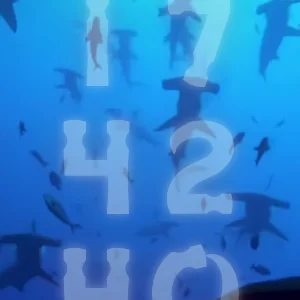
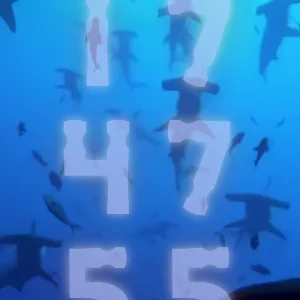
m

diff --git a/src/pages/2026/26-09/26-09-15/Clock.module.css b/src/pages/2026/26-09/26-09-15/Clock.module.css
@@ -1,6 +1,6 @@
 .container {
   --background: #090909;
-  --display-color: #f4f1e8;
+  --display-color: #d7cdf2;
   --accent-color: #ff4d00;
 
   position: relative;
@@ -34,11 +34,11 @@
   gap: 0.15em; /* Spacing between rows */
   color: var(--display-color);
   font-family: 'Hammerhead', 'Courier New', Courier, monospace;
-  font-size: clamp(8rem, 20vw, 16rem); /* DIGIT SIZE */
+  font-size: clamp(8rem, 16vw, 14rem); /* DIGIT SIZE */
   font-variant-numeric: tabular-nums;
   letter-spacing: 0;
   line-height: 0.85;
-  opacity: 0.4;
+  opacity: 0.6;
   text-shadow:
     0 0 0.08em rgba(244, 235, 232, 0.995),
     0 0 0.3em rgba(255, 77, 0, 0.523);
